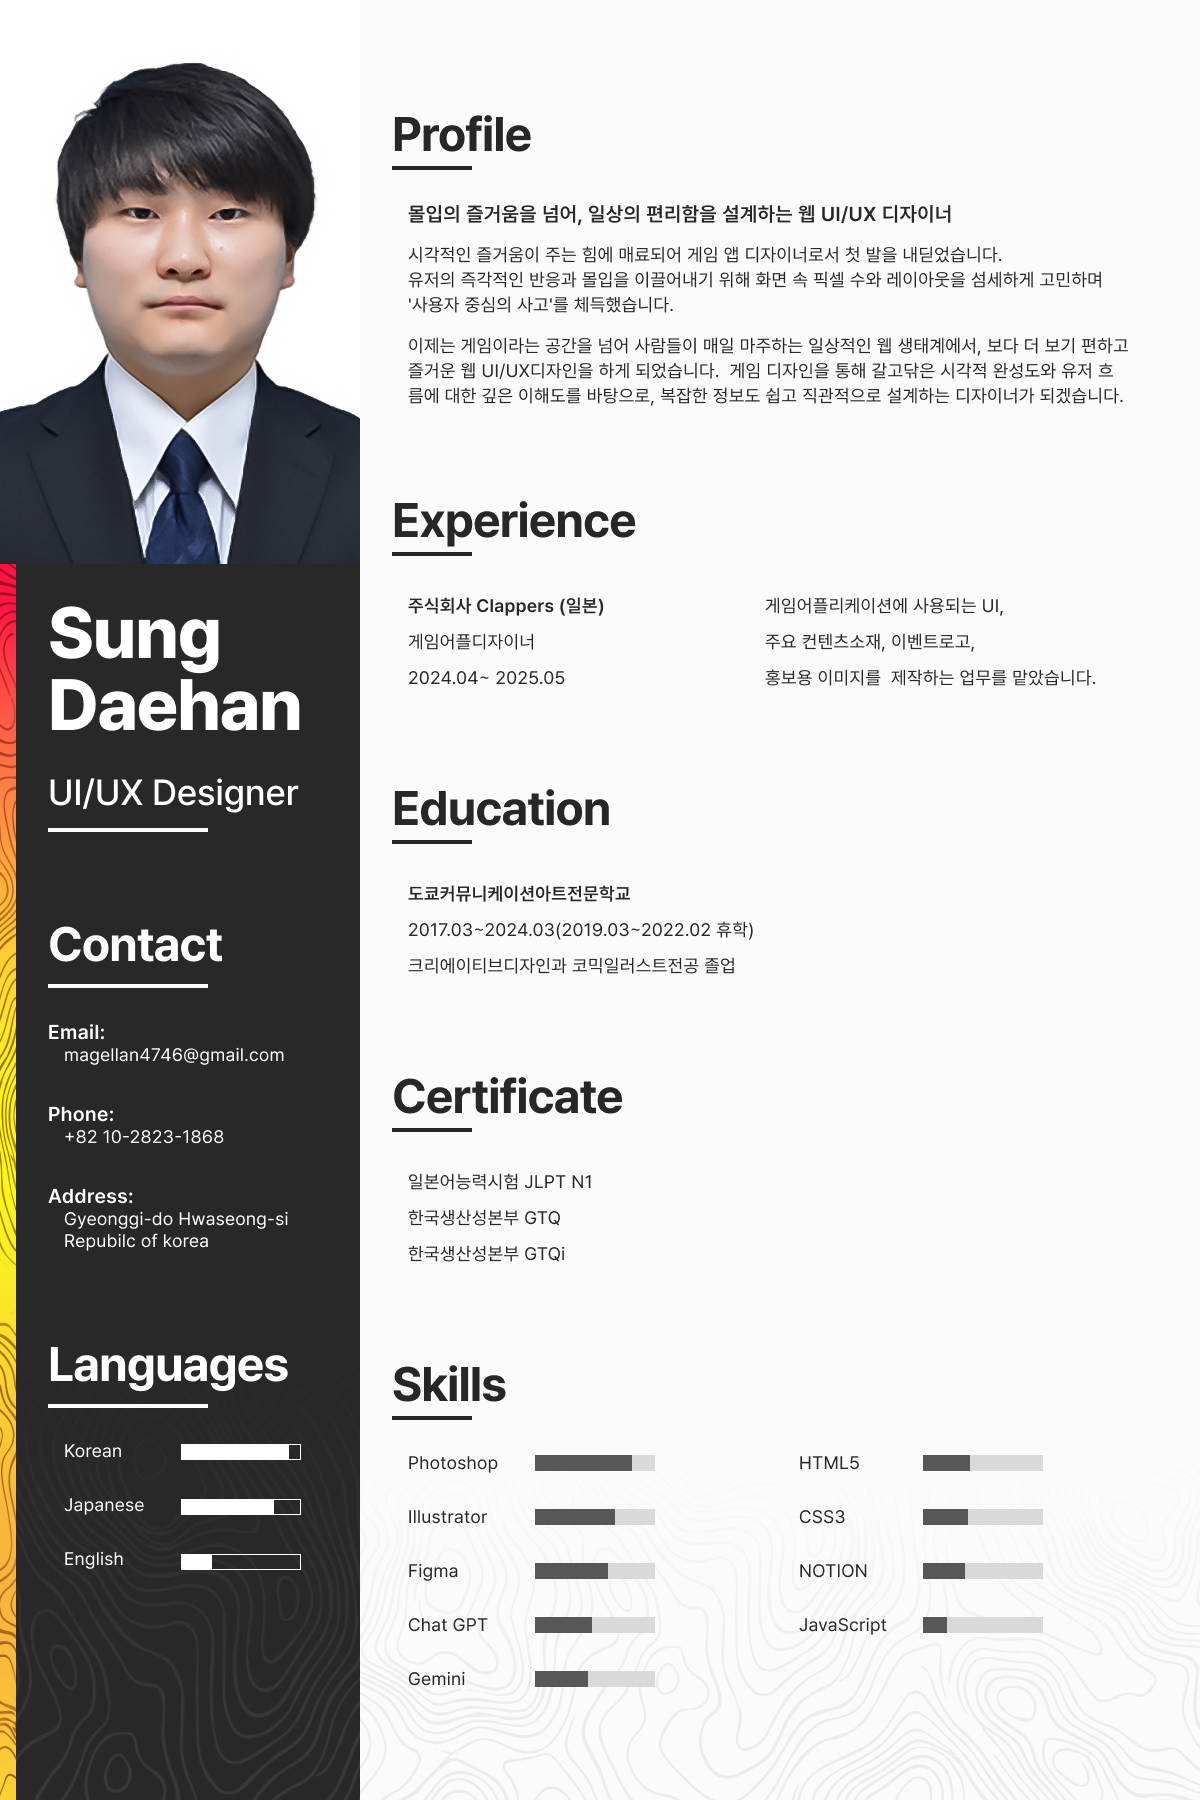
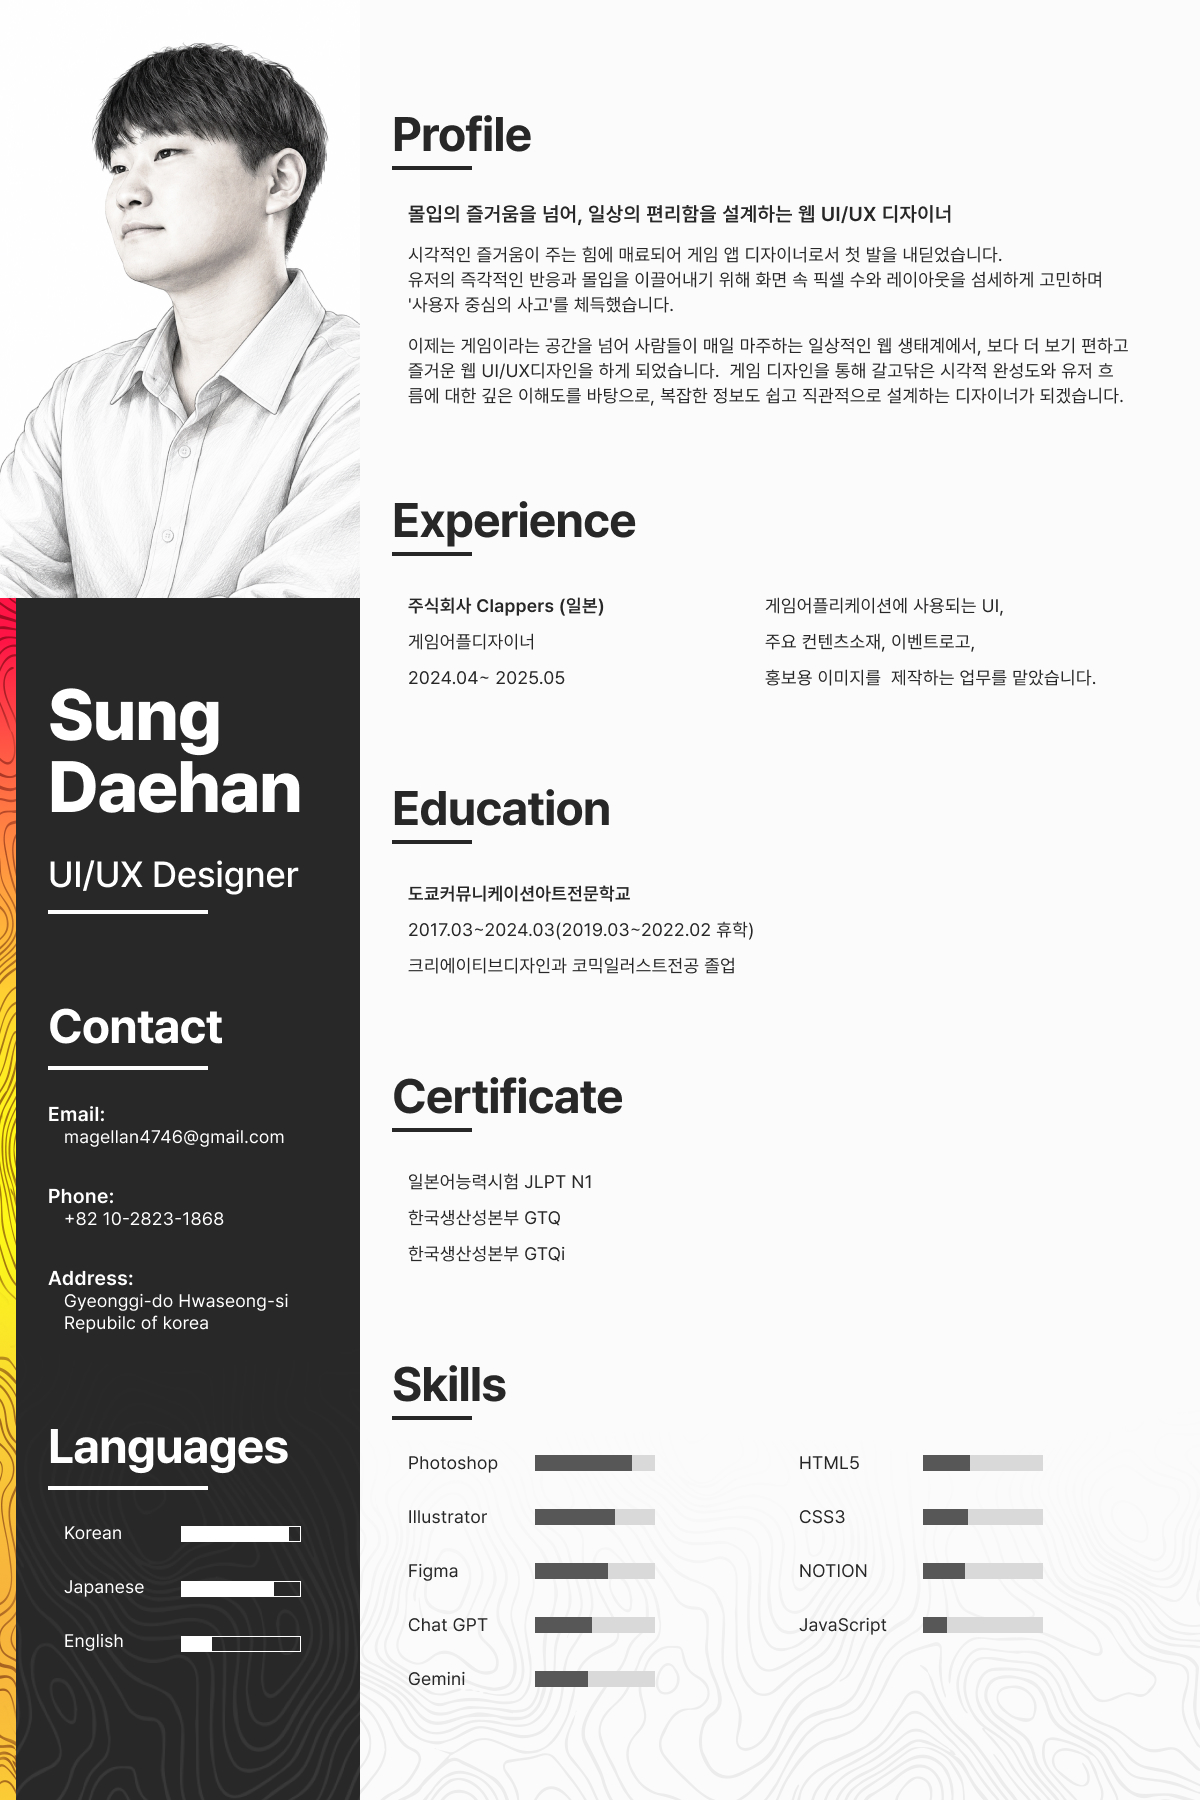
이미지 수정

Changed region(s): [[0.0, 0.0, 0.3083, 0.9956]]

diff --git a/index.html b/index.html
@@ -141,7 +141,7 @@
             <div class="con1-profile">
                 <div class="con1-profile-wrap">
                     <div class="prf-img">
-                        <img src="./img/bangboo_v500.png" alt="프로필이미지">
+                        <img src="./img/profile.png" alt="프로필이미지">
                     </div>
                     <div class="prf-caption">
                         <p>성대한</p>
